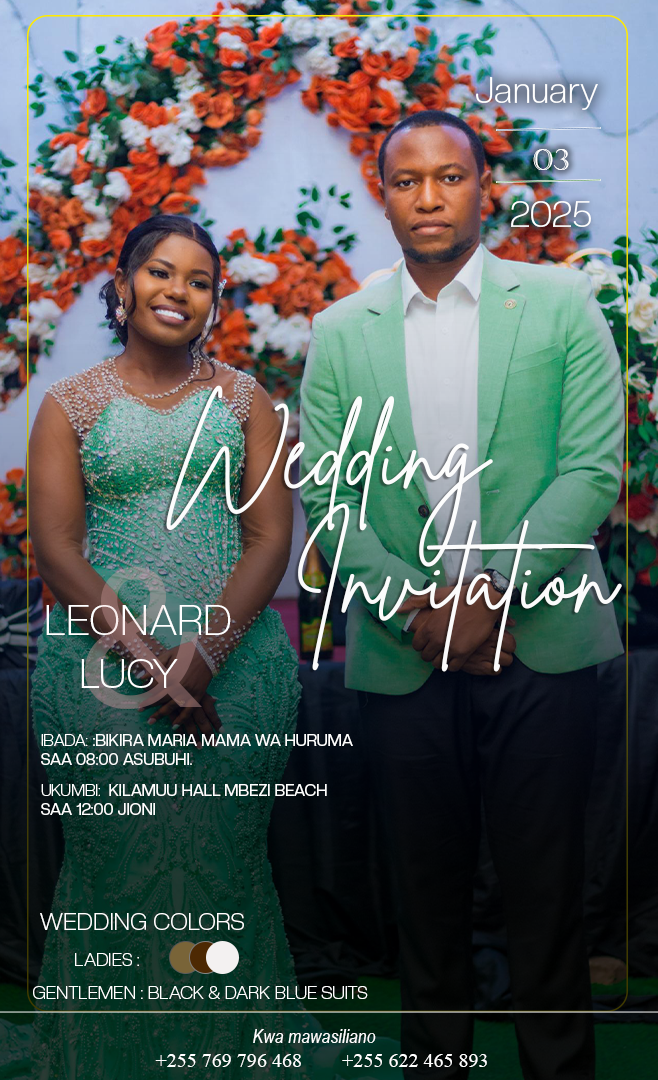
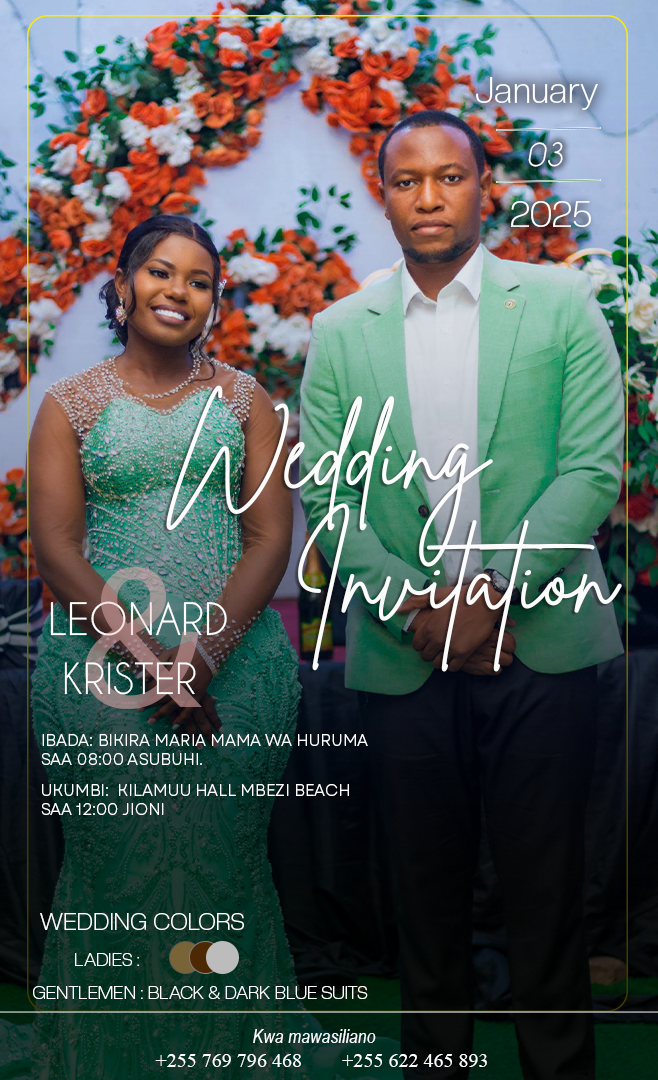
-------------

Changed region(s): [[0.0608, 0.5194, 0.5471, 0.7639], [0.7903, 0.1222, 0.8815, 0.1833], [0.304, 0.8556, 0.3647, 0.9167]]

diff --git a/src/Component/AudioGuestbook.jsx b/src/Component/AudioGuestbook.jsx
@@ -2,7 +2,7 @@ import { useState, useRef } from 'react';
 import { FaRedo, FaPaperPlane, FaMicrophone } from 'react-icons/fa';
 import './AudioGuestbook.css';
 
-export default function AudioGuestbook({ guest = "Leonard & lucy" }) {
+export default function AudioGuestbook({ guest = "Leonard & Krister" }) {
   const [recording, setRecording] = useState(false);
   const [audioURL, setAudioURL] = useState(null);
   const [saving, setSaving] = useState(false);
